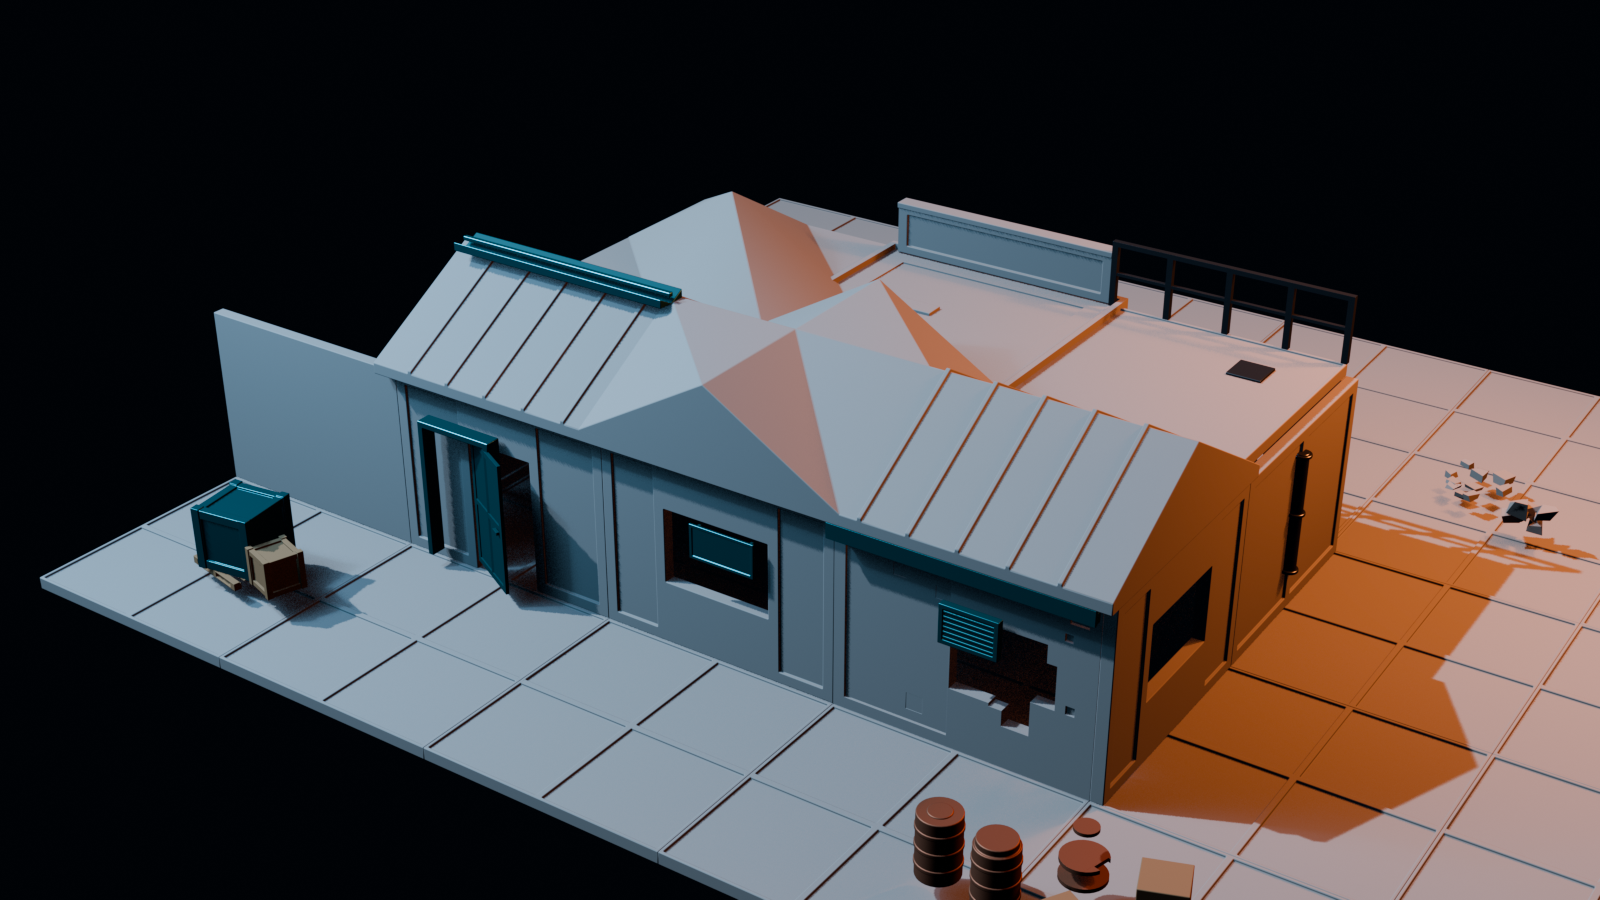
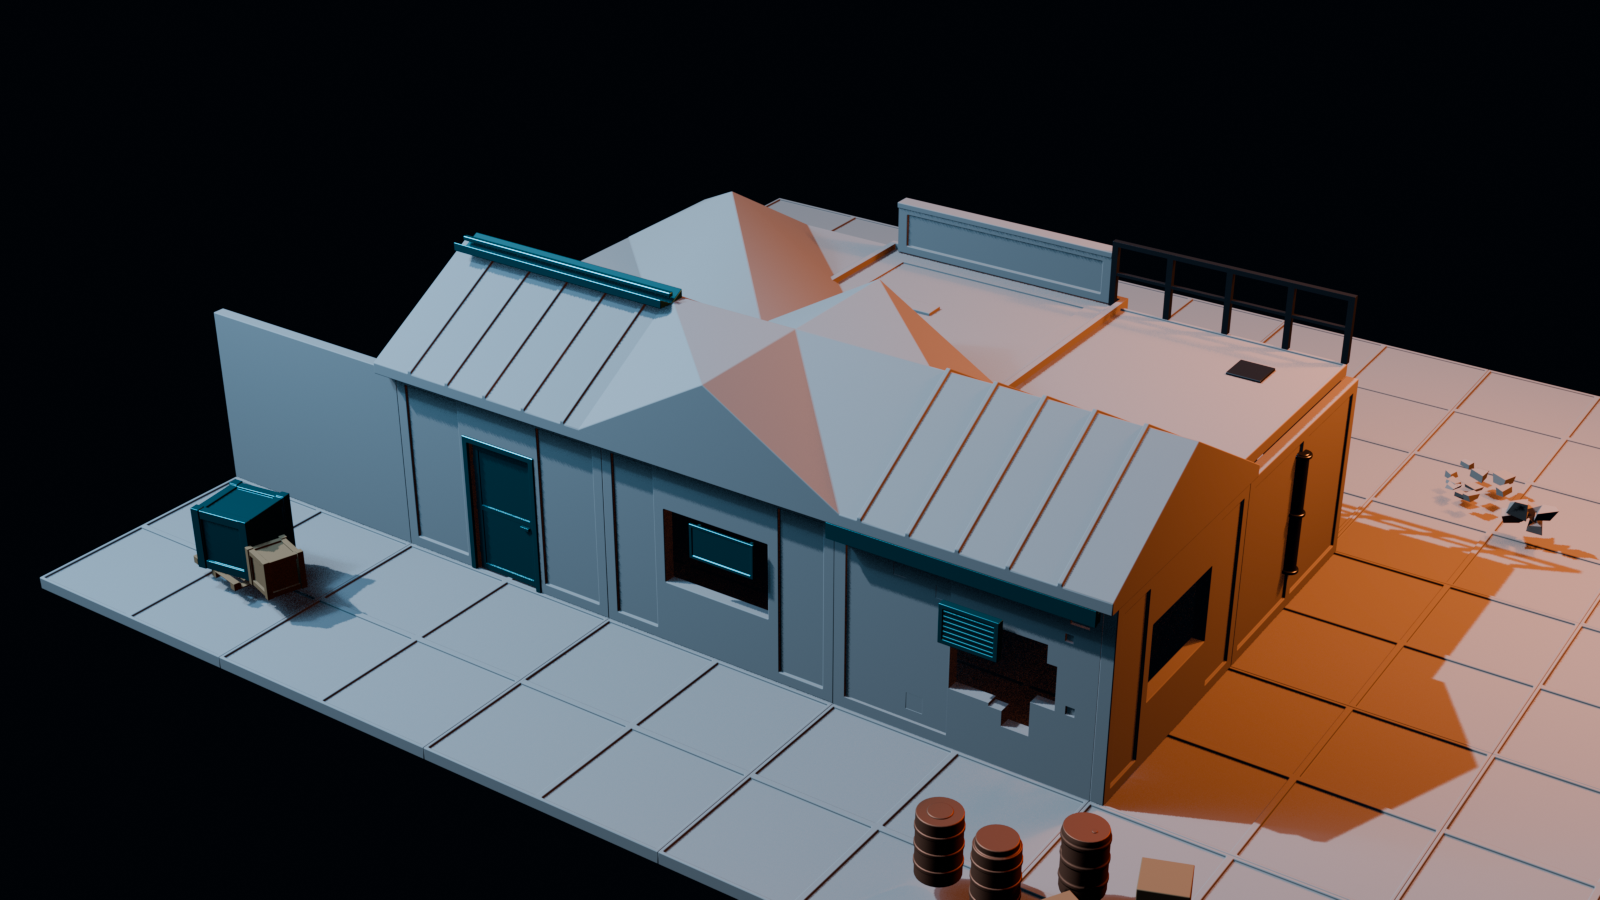
Correct door, barrel, and pallet geometry

Changed region(s): [[0.25, 0.4667, 0.375, 0.6844], [0.6562, 0.9022, 0.7188, 1.0], [0.125, 0.6222, 0.1562, 0.6533]]

diff --git a/scripts/build_kit.py b/scripts/build_kit.py
@@ -486,14 +486,18 @@ def pallet(name, w=1.20, d=0.80, mat="M_Wood"):
     board = 0.022
     blk_h = 0.078
     bx, by = w / 2.0, d / 2.0
-    # bottom deckboards
-    for y in (-by, -board * 1.5, by - 0.12):
-        _put(bm, (-bx, y, 0), (bx, y + 0.12, board))
-    # blocks
-    for x in (-bx, -0.06, bx - 0.12):
-        for y in (-by, -0.06, by - 0.12):
+    runner = 0.12
+    runner_x = (-bx, -runner / 2.0, bx - runner)
+    block_y = (-by, -runner / 2.0, by - runner)
+    # Three lower runners cross beneath the five upper deckboards. Keeping
+    # these perpendicular makes the pallet read as one supported assembly.
+    for x in runner_x:
+        _put(bm, (x, -by, 0), (x + runner, by, board))
+    # Nine spacer blocks tie the runners to the deck.
+    for x in runner_x:
+        for y in block_y:
             _put(bm, (x, y, board), (x + 0.12, y + 0.12, board + blk_h))
-    # top deckboards
+    # Five top deckboards span the long axis.
     z = board + blk_h
     n = 5
     for i in range(n):
@@ -588,24 +592,58 @@ def barrel_open(name, radius=0.30, height=0.92, mat="M_RustedIron"):
 
 def barrel_dented(name, radius=0.30, height=0.92, seed=5,
                   mat="M_RustedIron"):
-    """Beaten-up barrel: rings intact, body knocked about. Origin base centre."""
+    """Beaten-up but continuous ribbed barrel. Origin base centre."""
     import random
     rng = random.Random(seed)
     bm = bmesh.new()
-    L.add_cylinder(bm, radius, height, segments=32,
-                   center=(0, 0, height / 2.0))
-    for z in (height * 0.22, height * 0.5, height * 0.78):
-        L.add_cylinder(bm, radius * 1.045, 0.06, segments=32, center=(0, 0, z))
-    L.add_cylinder(bm, radius * 0.55, 0.05, segments=24,
-                   center=(0, 0, height - 0.01))
-    # carve shallow dents by subtracting spheres-ish boxes at odd angles
-    for _ in range(6):
-        ang = rng.uniform(0, 6.2832)
-        z = rng.uniform(height * 0.15, height * 0.85)
-        d = rng.uniform(0.07, 0.13)
-        cx = math.cos(ang) * (radius + d * 0.35)
-        cy = math.sin(ang) * (radius + d * 0.35)
-        L.carve(bm, (cx - d, cy - d, z - d), (cx + d, cy + d, z + d))
+    segments = 32
+    # Extra height loops form three shallow rolling ribs without inserting
+    # solid discs through the body.
+    levels = (
+        (0.00, -0.012), (0.05, 0.000),
+        (0.18, 0.000), (0.20, 0.014), (0.24, 0.014), (0.26, 0.000),
+        (0.47, 0.000), (0.49, 0.014), (0.53, 0.014), (0.55, 0.000),
+        (0.76, 0.000), (0.78, 0.014), (0.82, 0.014), (0.84, 0.000),
+        (height - 0.05, 0.000), (height, -0.012),
+    )
+    dents = []
+    for _ in range(4):
+        dents.append((
+            rng.uniform(0.0, math.tau),
+            rng.uniform(height * 0.18, height * 0.82),
+            rng.uniform(0.035, 0.075),
+            rng.uniform(0.25, 0.42),
+            rng.uniform(0.13, 0.22),
+        ))
+
+    loops = []
+    for z, rib in levels:
+        loop = []
+        for i in range(segments):
+            ang = math.tau * i / segments
+            dent = 0.0
+            for dent_ang, dent_z, depth, angular_span, vertical_span in dents:
+                delta = abs((ang - dent_ang + math.pi) % math.tau - math.pi)
+                angular = max(0.0, 1.0 - delta / angular_span)
+                vertical = max(0.0, 1.0 - abs(z - dent_z) / vertical_span)
+                dent += depth * angular * angular * vertical * vertical
+            # A restrained oval bias keeps the silhouette visibly battered.
+            oval = 1.0 + 0.025 * math.cos(2.0 * ang + 0.7)
+            r = max(radius * 0.72, (radius + rib) * oval - dent)
+            loop.append(bm.verts.new((r * math.cos(ang), r * math.sin(ang), z)))
+        loops.append(loop)
+
+    for lower, upper in zip(loops, loops[1:]):
+        for i in range(segments):
+            j = (i + 1) % segments
+            bm.faces.new((lower[i], lower[j], upper[j], upper[i]))
+    bm.faces.new(tuple(reversed(loops[0])))
+    bm.faces.new(tuple(loops[-1]))
+    bm.normal_update()
+
+    # A small offset bung reads as barrel hardware, not a detached lid.
+    L.add_cylinder(bm, 0.035, 0.014, segments=16,
+                   center=(radius * 0.42, 0, height + 0.007))
     return L.finish(bm, name, material=MATS[mat],
                     collection=L.get_collection("Props"))
 

diff --git a/scripts/build_demo_scene.py b/scripts/build_demo_scene.py
@@ -151,10 +151,14 @@ def assemble(sources):
     place(sources, "SM_Support_Column_3m", (2.72 * M, 1.74 * M, 0.20),
           zone="Interior")
     place(sources, "SM_Beam_4m", (M, 1.88 * M, H - 0.34), zone="Interior")
-    place(sources, "SM_Doorframe", (0.50 * M - cfg.DOOR_WIDTH / 2,
-                                     -cfg.WALL_THICKNESS, 0.20), zone="Interior")
-    place(sources, "SM_Door_Panel", (0.50 * M, -0.08 * M, 0.20),
-          (0, 0, -28 * DEG), zone="Interior")
+    # Both door assets use a base-centre origin. Centre them in the wall cut,
+    # with the frame straddling the wall depth and the closed leaf seated
+    # inside it, so solid and wireframe views agree exactly.
+    place(sources, "SM_Doorframe",
+          (0.50 * M, cfg.WALL_THICKNESS / 2.0, 0.0), zone="Interior")
+    place(sources, "SM_Door_Panel",
+          (0.50 * M, cfg.WALL_THICKNESS / 2.0 - 0.055 / 2.0, 0.0),
+          zone="Interior")
     place(sources, "SM_Floor_Hatch", (2.12 * M, 1.15 * M, 0.23), zone="Interior")
 
     # Wall-mounted details. Slight offsets use the configured wall thickness.

diff --git a/docs/release_notes_v1.2.md b/docs/release_notes_v1.2.md
@@ -18,6 +18,15 @@ built entirely from all 38 ModKit assets. Explore it in the
 or download `ModKit-v1.2-Industrial-Outpost.zip` for Blender, GLB, FBX and the
 complete transform manifest.
 
+### July 23 geometry corrections
+
+- centred and base-aligned the Industrial Outpost doorframe and door leaf with
+  the doorway wall cut
+- rebuilt `SM_Barrel_Dented` as one continuous, deformed ribbed shell instead
+  of boolean-separated barrel slices
+- corrected `SM_Pallet` with three perpendicular lower runners and nine support
+  blocks beneath its five upper deckboards
+
 ## Download
 
 **`ModKit-v1.2.zip`** below contains the complete pack — no clone or build step required.